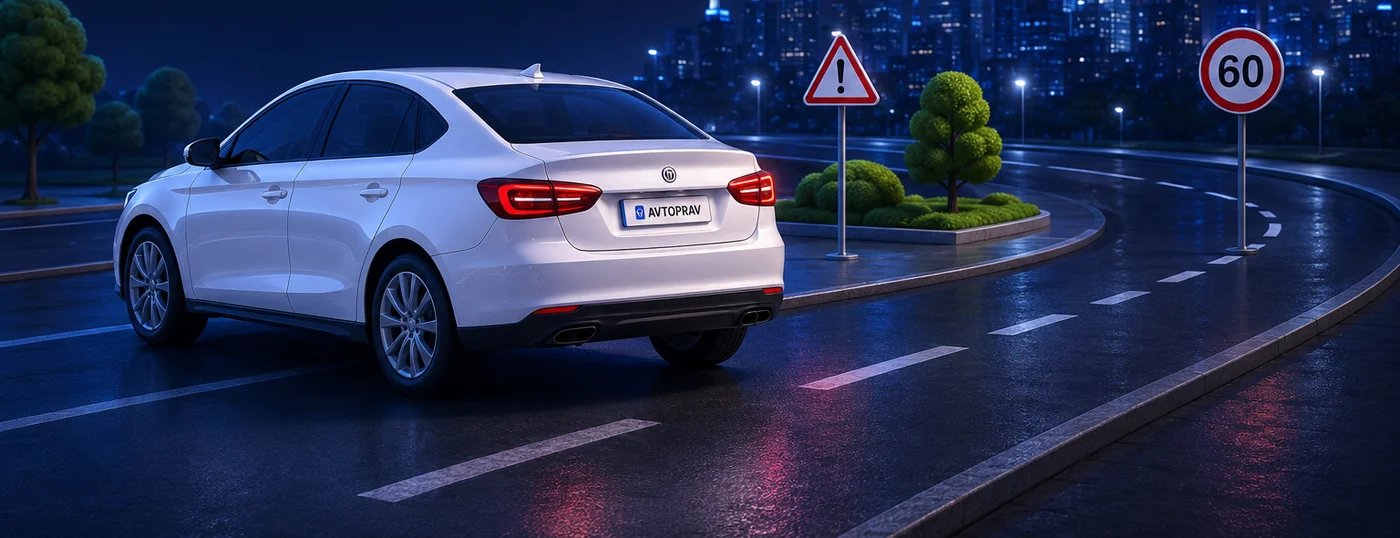
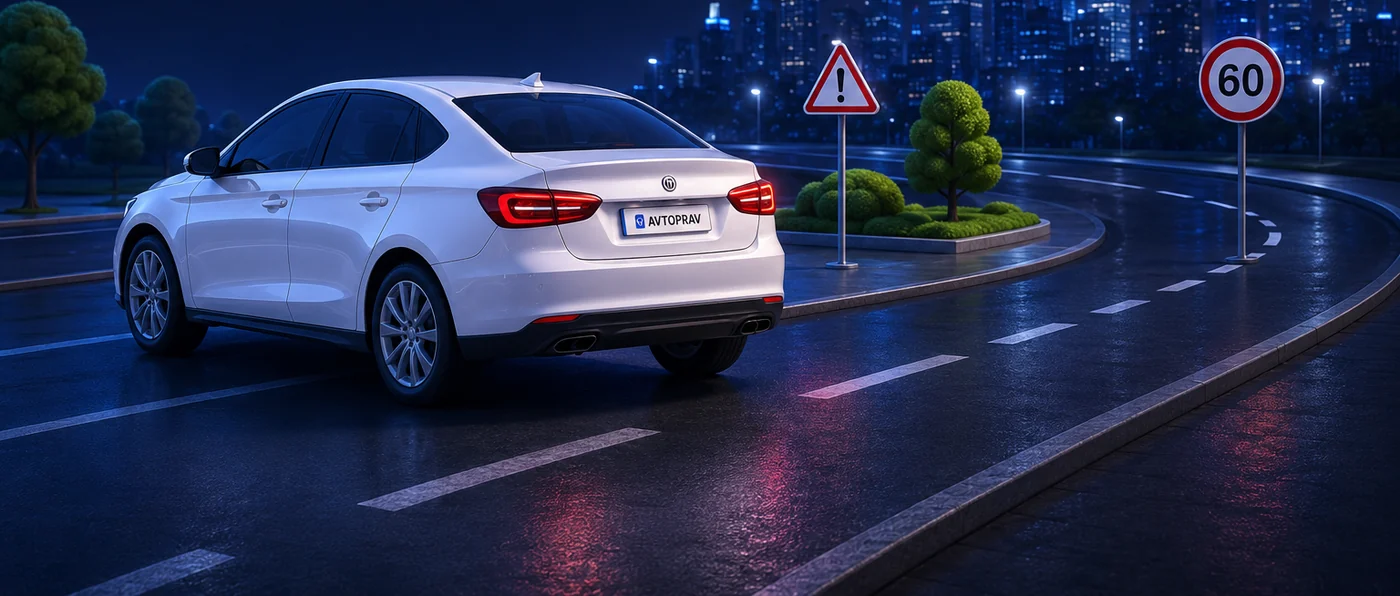
fix(auth): rasm qirqilmasin (yo'l tagi ham ko'rinsin) + so'ralmagan o'zgarishlarni qaytarish
RASM. Ilgari manbadan y 370..960 olingan edi — pastdan 64px YO'L KESILGAN,
ustiga CSS `max-height` ham qirqardi. Endi y 370..1024, ya'ni yo'lning tagi
TO'LIQ ko'rinadi (nisbat 2.349, 1400x596). `max-height` ataylab katta
qilindi (56vh): 863px ustunda tabiiy balandlik 367px, 703px da 299px — ya'ni
odatdagi ekranlarda chegara umuman ishga tushmaydi va rasm qirqilmaydi.
`background-position` `top` → `bottom`: agar juda past ekranda qirqish kerak
bo'lsa, yo'l emas OSMON kesiladi.

Rasm balandlashgani uchun ustun 16px (1660x940) va 19px (1366x768) oshib
scroll berardi. Rasmni qirqish o'rniga logotip ustidagi va matn bloklari
orasidagi bo'shliqlar shuncha kamaytirildi — ikkala ekranda ham scroll yo'q.

QAYTARILDI (men so'ramasdan qilgan edim):
  · ko'k gradient tugma va undagi strelka → yana `--text-1`/`--surface`
    juftligi (qora tugma, qorong'ida teskari oq)
  · Telegram tugmasi → yana brend ko'ki (#2aabee, oq matn, oq spinner)

QOLDIRILDI (siz tanlagansiz):
  · sarlavhaning oxirgi so'zi brend ko'kida gradient
  · login maydonining ichidagi odam ikonkasi

Tekshirildi (production build): 1660x940 va 1366x768, login va register,
yorug' <-> qorong'i — rasm qirqilmaydi, ustun pastiga tegadi, scroll yo'q.

diff --git a/app/components/AuthShowcase.vue b/app/components/AuthShowcase.vue
@@ -160,8 +160,11 @@ const features = computed(() => [
      cho'zilishi uchun shunday. */
   padding: 32px 0 0;
 }
-@media (min-width: 1024px) { .showcase { padding: 40px 0 0; } }
-@media (min-width: 1280px) { .showcase { padding: 44px 0 0; } }
+/* Yuqori padding ATAYLAB kichik: rasm yo'l tagigacha kesilgani uchun
+   balandroq (2.349 nisbat), va 1660x940 da ustun 16px oshib scroll berardi.
+   Rasmni qirqish o'rniga logotip ustidagi bo'shliq kamaytirildi. */
+@media (min-width: 1024px) { .showcase { padding: 30px 0 0; } }
+@media (min-width: 1280px) { .showcase { padding: 30px 0 0; } }
 
 .showcase-pad { padding: 0 24px; }
 @media (min-width: 1024px) { .showcase-pad { padding: 0 40px; } }
@@ -228,16 +231,20 @@ const features = computed(() => [
      shuning uchun mavzu almashganda balandlik sakramaydi. */
   background-image: url('/auth-road.webp');
   background-size: cover;
-  /* `top`: past ekranda qirqish kerak bo'lsa PASTDAGI bo'sh asfalt kesiladi,
-     mashina joyida qoladi (ilgari `bottom` edi — u mashinaning ustki yarmini
-     kesib tashlardi). */
-  background-position: center top;
+  /* `bottom`: agar qirqish kerak bo'lsa, YUQORIDAN (osmon) kesiladi.
+     Yo'lning tagi har doim ko'rinishi kerak. */
+  background-position: center bottom;
   background-repeat: no-repeat;
 
   /* `aspect-ratio` — element `<div>` bo'lgani uchun tabiiy o'lchami yo'q.
-     Balandlik kenglikdan hisoblanadi, ya'ni CLS bo'lmaydi. */
-  aspect-ratio: 1400 / 538;
-  max-height: min(440px, 46vh);
+     Balandlik kenglikdan hisoblanadi, ya'ni CLS bo'lmaydi.
+     Rasm 2.349 nisbatda kesilgan (yo'l tagigacha).
+     `max-height` ATAYLAB katta: 863px ustunda tabiiy balandlik 367px,
+     703px da 299px — ya'ni odatdagi ekranlarda BU CHEGARA ISHGA TUSHMAYDI va
+     rasm umuman qirqilmaydi. U faqat juda past ekranlar uchun xavfsizlik
+     klapani. Ilgari 46vh edi va 1366x768 da rasmni qirqib tashlardi. */
+  aspect-ratio: 1400 / 596;
+  max-height: min(560px, 56vh);
 
   -webkit-mask-image:
     linear-gradient(to bottom, transparent 0%, #000 22%),
@@ -261,13 +268,13 @@ const features = computed(() => [
    ustun mazmuni bunday balandlikda ekrandan oshib, sahifa keraksiz vertikal
    scroll olardi. Bu yerda hamma vertikal o'lchamlar bir joyda qisqartiriladi. */
 @media (max-height: 820px) {
-  .showcase { padding-top: 24px; }
+  .showcase { padding-top: 14px; }
   .showcase-title { font-size: 30px; margin-top: 0.625rem; }
-  .trust-chip { height: 30px; font-size: 12.5px; }
+  .trust-chip { height: 27px; font-size: 12.5px; }
   .showcase-pad ul { gap: 0.625rem; margin-top: 1.125rem; }
   .showcase-pad ul p { margin-top: 0.125rem; }
-  .showcase-pad > div { margin-top: 1.25rem; }
-  .road { max-height: 30vh; }
+  .showcase-pad > div { margin-top: 0.875rem; }
+  .road { max-height: 44vh; }   /* qirqmaslik uchun tabiiy balandlikdan yuqori */
 }
 
 </style>

diff --git a/app/components/SocialAuthButtons.vue b/app/components/SocialAuthButtons.vue
@@ -191,9 +191,7 @@ onBeforeUnmount(() => {
             :disabled="!!busy"
             @click="onTelegramClick"
           >
-            <!-- Spinner rangi tugma matniga bog'langan: tugma endi to'yingan
-                 ko'k emas, yorug' sirt — oq spinner ko'rinmay qolardi. -->
-            <span v-if="busy === 'telegram'" class="tg-spinner" aria-hidden="true" />
+            <span v-if="busy === 'telegram'" class="inline-block w-4 h-4 border-2 border-white/30 border-t-white rounded-full animate-spin" />
             <svg v-else class="w-[18px] h-[18px]" viewBox="0 0 24 24" fill="currentColor" aria-hidden="true">
               <path d="M9.42 15.18l-.4 5.58c.57 0 .82-.24 1.11-.53l2.66-2.55 5.52 4.04c1.01.56 1.73.27 2-.93L23.93 3.82c.32-1.5-.54-2.08-1.53-1.71L1.11 10.26c-1.45.56-1.43 1.37-.25 1.74l5.44 1.69L18.95 5.65c.6-.39 1.14-.18.69.22z" />
             </svg>
@@ -272,11 +270,9 @@ onBeforeUnmount(() => {
   50%      { opacity: .55 }
 }
 
-/* Telegram tugmasi — maketdagidek NEYTRAL qator: sirt foni + yupqa chegara,
-   ikonka Telegram ko'kida. Ilgari butun tugma to'yingan ko'k edi va yonidagi
-   Google tugmasi bilan bir tizimda ko'rinmasdi.
-   Balandlik 40px — Google tugmasi bilan TENG bo'lishi kerak, uning balandligi
-   esa Google tomonidan qat'iy (`size: 'large'`), o'zgartirib bo'lmaydi. */
+/* Telegram tugmasi — brend rangi. Balandlik 40px: Google tugmasi bilan TENG
+   bo'lishi kerak, uning balandligi esa Google tomonidan qat'iy (size: 'large'),
+   o'zgartirib bo'lmaydi. */
 .tg-btn {
   display: inline-flex;
   align-items: center;
@@ -285,27 +281,16 @@ onBeforeUnmount(() => {
   width: 100%;
   height: 40px;
   padding: 0 1rem;
-  border-radius: 8px;
+  border-radius: 6px;
   font-size: 0.875rem;
   font-weight: 500;
-  color: var(--text-1);
-  background: var(--surface);
-  border: 1px solid var(--border-1);
-  transition: background .15s, border-color .15s, box-shadow .15s;
+  color: #fff;
+  background: #2aabee;
+  box-shadow: 0 1px 2px rgba(15, 23, 42, 0.08);
+  transition: background .15s, filter .15s, box-shadow .15s;
 }
-.tg-btn svg { color: #2aabee; }
-.tg-spinner {
-  width: 16px;
-  height: 16px;
-  border-radius: 9999px;
-  border: 2px solid var(--border-1);
-  border-top-color: var(--text-1);
-  animation: tg-spin .7s linear infinite;
-}
-@keyframes tg-spin { to { transform: rotate(360deg); } }
-@media (prefers-reduced-motion: reduce) { .tg-spinner { animation-duration: 2s; } }
-.tg-btn:hover:not(:disabled) { background: var(--surface-inset); border-color: var(--text-muted); }
-.tg-btn:active:not(:disabled) { background: var(--surface-inset); }
+.tg-btn:hover:not(:disabled) { background: #229ed9; }
+.tg-btn:active:not(:disabled) { background: #1e91c7; }
 .tg-btn:focus-visible { outline: none; box-shadow: 0 0 0 4px rgba(42, 171, 238, 0.28); }
 .tg-btn:disabled { opacity: .5; cursor: not-allowed; }
 </style>

diff --git a/app/pages/login.vue b/app/pages/login.vue
@@ -133,7 +133,6 @@ async function submit() {
                     :aria-disabled="auth.loading" :aria-busy="auth.loading">
               <span v-if="auth.loading" class="spinner" aria-hidden="true" />
               <span>{{ i18n.t({ uz: 'Davom etish', kr: 'Давом этиш' }) }}</span>
-              <AppIcon v-if="!auth.loading" name="arrow" :size="17" class="submit-arrow" />
             </button>
           </form>
 
@@ -285,13 +284,11 @@ async function submit() {
 .reveal-icon:hover { color: var(--text-1); background: var(--surface-inset); }
 .reveal-icon:focus-visible { outline: none; box-shadow: 0 0 0 3px var(--primary-ring); }
 
-/* Maketdagi ko'k GRADIENT tugma. Ilgari `--text-1`/`--surface` juftligi edi
-   (qora tugma, qorong'ida teskari oq bo'lardi) — maketda esa u brend ko'kida
-   va ikkala mavzuda BIR XIL.
-   Oq matn: #3563e8 ustida 5.12:1, #5b4ff0 ustida 5.5:1 — ikkalasi ham AA
-   (4.5:1) dan o'tadi. DIQQAT: dastlab #3b6ef5 olingan edi, u brauzerda
-   o'lchanganda 4.44:1 chiqdi — chegaradan past, shuning uchun to'qlashtirildi. */
+/* Rang `--text-1`/`--surface` juftligi — `.btn-primary` bilan bir xil
+   mantiq: qorong'i rejimda tugma o'z-o'zidan teskari (yorug' fon, to'q matn)
+   bo'ladi. */
 .submit-btn {
+  position: relative;
   display: inline-flex;
   align-items: center;
   justify-content: center;
@@ -301,29 +298,14 @@ async function submit() {
   border-radius: 14px;
   font-size: 15px;
   font-weight: 600;
-  color: #fff;
-  background: linear-gradient(96deg, #3563e8 0%, #5b4ff0 100%);
-  box-shadow: 0 10px 26px -12px rgba(53, 99, 232, 0.75);
-  transition: filter .15s, transform .15s, box-shadow .15s, opacity .15s;
+  background: var(--text-1);
+  color: var(--surface);
+  box-shadow: var(--shadow-soft);
+  transition: background .15s, transform .15s, opacity .15s;
 }
-.submit-btn:hover:not([aria-disabled='true']) {
-  filter: brightness(1.07);
-  box-shadow: 0 14px 30px -12px rgba(53, 99, 232, 0.85);
-}
+.submit-btn:hover:not([aria-disabled='true']) { background: var(--text-2); }
 .submit-btn:active:not([aria-disabled='true']) { transform: translateY(1px); }
 
-/* Strelka o'ng chetda, matn esa MARKAZDA qoladi — shuning uchun strelka
-   oqimdan chiqarilgan (`absolute`). Flex ichida qoldirilsa matnni chapga
-   surib yuborardi. */
-.submit-btn { position: relative; }
-.submit-arrow {
-  position: absolute;
-  right: 18px;
-  top: 50%;
-  transform: translateY(-50%);
-  transition: transform .18s;
-}
-.submit-btn:hover .submit-arrow { transform: translateY(-50%) translateX(3px); }
 /* `[aria-disabled]`, `:disabled` EMAS — sabab script blokida. */
 .submit-btn[aria-disabled='true'] { opacity: .6; cursor: progress; }
 .submit-btn[aria-disabled='true']:hover { background: var(--text-1); }

diff --git a/app/pages/register.vue b/app/pages/register.vue
@@ -221,7 +221,6 @@ watch(errors, (next) => {
               <span>{{ isUpgrade
                 ? i18n.t({ uz: 'Hisobni saqlash', kr: 'Ҳисобни сақлаш' })
                 : i18n.t({ uz: 'Hisob yaratish', kr: 'Ҳисоб яратиш' }) }}</span>
-              <AppIcon v-if="!auth.loading" name="arrow" :size="17" class="submit-arrow" />
             </button>
 
             <p class="text-xs text-center leading-relaxed" style="color: var(--text-3);">
@@ -381,8 +380,9 @@ watch(errors, (next) => {
 .reveal-icon:hover { color: var(--text-1); background: var(--surface-inset); }
 .reveal-icon:focus-visible { outline: none; box-shadow: 0 0 0 3px var(--primary-ring); }
 
-/* Maketdagi ko'k GRADIENT tugma (login.vue bilan bir xil). Oq matn #3563e8 ustida 5.12:1,
-   #5b4ff0 ustida 5.5:1 — ikkalasi ham AA (4.5:1) dan otadi. */
+/* Rang `--text-1`/`--surface` juftligi — `.btn-primary` bilan bir xil
+   mantiq: qorong'i rejimda tugma o'z-o'zidan teskari (yorug' fon, to'q matn)
+   bo'ladi. */
 .submit-btn {
   position: relative;
   display: inline-flex;
@@ -394,27 +394,14 @@ watch(errors, (next) => {
   border-radius: 14px;
   font-size: 15px;
   font-weight: 600;
-  color: #fff;
-  background: linear-gradient(96deg, #3563e8 0%, #5b4ff0 100%);
-  box-shadow: 0 10px 26px -12px rgba(53, 99, 232, 0.75);
-  transition: filter .15s, transform .15s, box-shadow .15s, opacity .15s;
+  background: var(--text-1);
+  color: var(--surface);
+  box-shadow: var(--shadow-soft);
+  transition: background .15s, transform .15s, opacity .15s;
 }
-.submit-btn:hover:not([aria-disabled='true']) {
-  filter: brightness(1.07);
-  box-shadow: 0 14px 30px -12px rgba(53, 99, 232, 0.85);
-}
+.submit-btn:hover:not([aria-disabled='true']) { background: var(--text-2); }
 .submit-btn:active:not([aria-disabled='true']) { transform: translateY(1px); }
 
-/* Strelka ong chetda, matn MARKAZDA qoladi — flex ichida qoldirilsa matnni
-   chapga surib yuborardi. */
-.submit-arrow {
-  position: absolute;
-  right: 18px;
-  top: 50%;
-  transform: translateY(-50%);
-  transition: transform .18s;
-}
-.submit-btn:hover .submit-arrow { transform: translateY(-50%) translateX(3px); }
 .submit-btn[aria-disabled='true'] { opacity: .6; cursor: progress; }
 .submit-btn[aria-disabled='true']:hover { background: var(--text-1); }
 .submit-btn:focus-visible { outline: none; box-shadow: 0 0 0 4px var(--primary-ring); }
